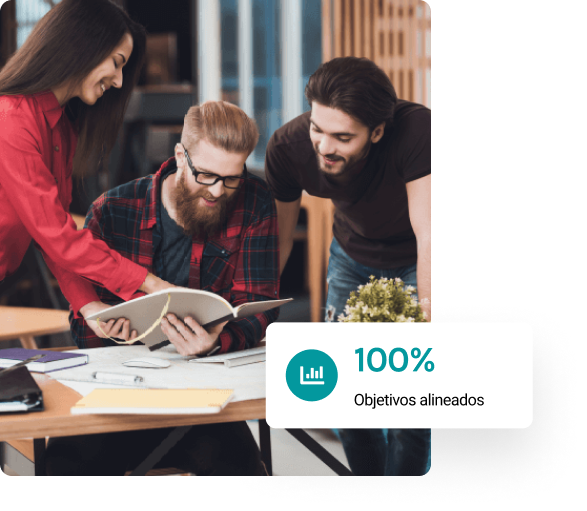
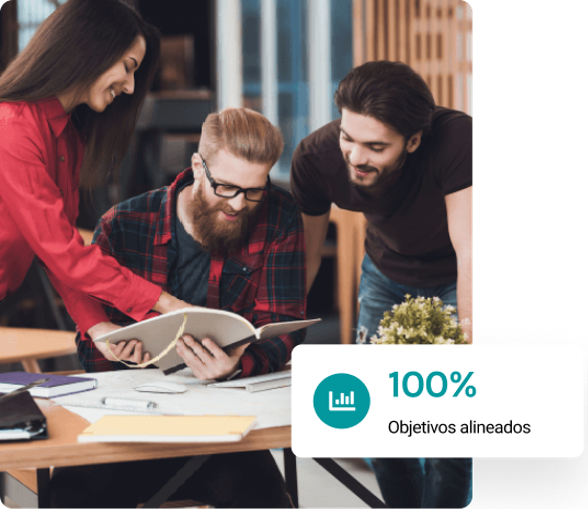
fix:changed components size for the company presentation

diff --git a/src/components/ui/InfoCompany.jsx b/src/components/ui/InfoCompany.jsx
@@ -1,4 +1,3 @@
-import React from "react";
 import nodes from "../../assets/nodes.png";
 import project from "../../assets/project.png";
 import company from "../../assets/company.png";
@@ -13,7 +12,8 @@ const features = [
   {
     image: project,
     title: "Proyectos y desafíos",
-    description: "Aplica los conocimientos y genera experiencia en grupo o indivualmente.",
+    description:
+      "Aplica los conocimientos y genera experiencia en grupo o indivualmente.",
   },
   {
     image: company,
@@ -27,11 +27,13 @@ const Info = () => {
   return (
     <div id="info" className="px-5 mb-20 md:pt-20 md:px-20">
       {/*Nuestra misión*/}
-      <div className="md:mb-40">
-        <div className="flex flex-col justify-between mb-5 md:flex-row ">
-          <div className="md:w-[50%]">
-            <h1 class="text-3xl text-primary font-bold mb-4">Nuestra misión</h1>
-            <p className="text-lg text-white text-justify">
+      <div className="xl:mb-20">
+        <div className="flex flex-col justify-between mb-5 xl:flex-row">
+          <div className="xl:w-[50%]">
+            <h1 className="mb-4 text-4xl font-bold md:text-5xl text-primary">
+              Nuestra misión
+            </h1>
+            <p className="text-lg text-justify text-white md:text-xl">
               En Nodect, nuestra misión es{" "}
               <strong className="text-primary">
                 optimizar los procesos educativos de las personas y su conexión
@@ -49,27 +51,27 @@ const Info = () => {
           <div className="">
             <img
               src="info1.png"
-              className="pt-5 md:pt-0 object-cover w-[300px] md:w-[400px] ml-[50%] md:ml-0 -translate-x-[50%] md:-translate-x-0"
+              className="pt-20 xl:pt-0 object-cover w-[300px] md:w-[400px] ml-[50%] xl:ml-0 -translate-x-[50%] xl:-translate-x-0"
             />
           </div>
         </div>
-        <div class="container mx-auto px-4 py-12">
-          <div class="flex flex-col md:flex-row">
-            <div class="md:w-1/2 p-4 rounded-lg mb-4 md:mb-0">
-              <h2 class="text-xl font-bold mb-2 text-primary text-center">
+        <div className="container py-20 mx-auto xl:px-10">
+          <div className="flex flex-col justify-between md:flex-row">
+            <div className="mb-10 rounded-lg md:w-[45%] md:mb-0">
+              <h2 className="mb-2 text-4xl font-bold text-center text-primary">
                 Innovación Tecnológica
               </h2>
-              <p class="text-white text-center font-bold">
+              <p className="text-lg text-center text-white md:text-xl">
                 Creemos firmemente en la importancia de innovar en una nueva
                 forma de concebir el proceso de aprendery cómo se recluta
                 talento en el mundo empresarial.
               </p>
             </div>
-            <div class="md:w-1/2 p-4 rounded-lg">
-              <h2 class="text-xl font-bold mb-2 text-primary text-center">
+            <div className="p-4 rounded-lg md:w-[45%]">
+              <h2 className="mb-2 text-4xl font-bold text-center text-primary">
                 Enfoque en el usuario
               </h2>
-              <p class="text-white text-center font-bold">
+              <p className="text-lg text-center text-white md:text-xl">
                 Al centrarnos en las necesidades reales de nuestros usuarios,
                 buscamos transformar ideas audaces en realidades tangibles que
                 marquen una diferencia positiva en el mundo.
@@ -80,33 +82,32 @@ const Info = () => {
       </div>
 
       {/*Nuestra visión*/}
-      <div className="flex flex-col items-center justify-between mb-20 md:flex-row-reverse ">
-        <div className="md:w-[40%]">
-          <h2 className="text-3xl text-primary font-bold mb-4">
+      <div className="flex flex-col items-center justify-between mb-10 xl:flex-row-reverse ">
+        <div className="xl:w-[50%]">
+          <h2 className="mb-4 text-4xl font-bold md:text-5xl text-primary">
             Nuestra visión
           </h2>
-          <p className="text-lg text-white text-justify">
-            Aspiramos a ser reconocidos por nuestra capacidad para diseñar e
-            implementar soluciones que mejoren la calidad educativa a unos
-            estándares sin predecentes además de revolucionar la forma de
-            captación de capital humano que tienen las empresas actualmente.
-            <br />
-            <strong className="text-primary">
-              Pero siempre, con un valores claros:
-            </strong>
-          </p>
-
-          <ul class="list-disc rounded-lg p-8">
-            <li class="text-lg mb-4 font-medium text-primary">
-              Compromiso con el cliente
-            </li>
-            <li class="text-lg mb-4 font-medium text-primary">
-              Integridad y transparencia
-            </li>
-            <li class="text-lg font-medium text-primary">
-              Innovación constante
-            </li>
-          </ul>
+          <div className="text-lg md:text-xl">
+            <p className="text-justify text-white ">
+              Aspiramos a ser reconocidos por nuestra capacidad para diseñar e
+              implementar soluciones que mejoren la calidad educativa a unos
+              estándares sin predecentes además de revolucionar la forma de
+              captación de capital humano que tienen las empresas actualmente.
+              <br />
+              <strong className="text-primary">
+                Pero siempre, con un valores claros:
+              </strong>
+            </p>
+            <ul className="p-8 list-disc rounded-lg">
+              <li className="font-medium xl:mb-4 text-primary">
+                Compromiso con el cliente
+              </li>
+              <li className="font-medium xl:mb-4 text-primary">
+                Integridad y transparencia
+              </li>
+              <li className="font-medium text-primary">Innovación constante</li>
+            </ul>
+          </div>
         </div>
         <div className="">
           <img
@@ -116,14 +117,15 @@ const Info = () => {
         </div>
       </div>
 
-      <div className="flex-col mt-15 mt-40">
+      {/*Como trabajamos*/}
+      <div className="flex-col mt-20">
         <div className="flex flex-col justify-center gap-2 text-4xl font-bold text-center md:flex-row md:text-5xl">
-          <h1 className="text-4xl text-primary font-bold mb-4">
+          <h1 className="mb-4 text-4xl font-bold md:text-5xl text-primary">
             Cómo trabajamos
           </h1>
         </div>
         <div className="flex justify-center">
-          <p className="text-lg text-white text-center">
+          <p className="text-lg text-center text-white md:text-xl">
             Nos centramos en cambiar el proceso de aprendizaje, buscando la
             mejora constante en todos los procesos, y que el usuario encuentre
             un espacio dónde sea totalmente beneficiado en caso paso.
@@ -131,22 +133,23 @@ const Info = () => {
         </div>
       </div>
 
-      <div className="container mx-auto px-4 py-8 mb-40">
-        <div className="flex flex-col md:flex-row justify-between space-y-4 md:space-y-0">
+      {/* Cards */}
+      <div className="container px-4 mx-auto mt-20">
+        <div className="flex flex-col justify-between space-y-4 md:flex-row md:space-y-0">
           {features.map((feature, index) => (
             <div
               key={index}
-              className="bg-primary rounded-lg shadow p-6 text-center flex-1 mx-2"
+              className="flex-1 p-6 mx-2 text-center rounded-lg shadow bg-primary"
             >
               <img
                 src={feature.image}
                 alt={feature.title}
-                className="mx-auto w-20 h-20 md:w-30 md:h-30"
+                className="w-20 h-20 mx-auto md:w-30 md:h-30"
               />
-              <h3 className="text-lg text-white md:text-xl font-semibold">
+              <h3 className="text-xl font-semibold text-white md:text-2xl">
                 {feature.title}
               </h3>
-              <p className="text-sm text-white md:text-base">
+              <p className="pt-5 text-lg text-white md:text-xl">
                 {feature.description}
               </p>
             </div>

diff --git a/src/components/ui/CompanyPresentation.jsx b/src/components/ui/CompanyPresentation.jsx
@@ -1,30 +1,36 @@
-import React from "react";
-
 const scrollToDestination = () => {
-  const destination = document.getElementById('info');
-  destination.scrollIntoView({ behavior: 'smooth' });
+  const destination = document.getElementById("info");
+  destination.scrollIntoView({ behavior: "smooth" });
 };
 const CompanyPresentation = () => {
   return (
-    <section className="my-10 min-h-[90vh] md:min-h-[60vh] xl:min-h-[70vh]">
-      <div className="flex flex-col md:flex-row mt-5">
-        <div className="flex flex-col justify-center gap-2 text-xl font-bold text-center md:text-3xl md:w-1/2">
-          <h1 className="text-white">Dedícate a aprender</h1>
-          <h4 className="text-primary">Nosotros nos ocupamos del resto</h4>
-          <p className="px-5 mt-5 text-base text-center text-white  ">
-            Buscamos generar un giro en la forma en que aprendemos y nos conectamos
-            al mercado laboral, acompañanos en esta aventura!
+    <section className="mt-10 min-h-[90vh] md:min-h-[60vh] md:bg-blue-200 xl:bg-red-300 2xl:bg-green-400 xl:min-h-[30vh]">
+      <div className="flex flex-col mt-5 xl:gap-20 xl:flex-row">
+        <div className="flex flex-col justify-center gap-2 text-center xl:w-[60%]">
+          <h1 className="text-4xl font-bold text-white md:text-5xl text-bold">
+            Dedícate a aprender
+          </h1>
+          <h4 className="text-4xl font-bold md:text-5xl text-bold text-primary">
+            Nosotros nos ocupamos del resto
+          </h4>
+          <p className="px-5 mt-5 text-lg text-center text-white md:text-xl">
+            Buscamos generar un giro en la forma en que aprendemos y nos
+            conectamos al mercado laboral, acompañanos en esta aventura!
           </p>
+
           <div className="flex flex-col items-center justify-center gap-4 px-10 pt-5 md:flex-row md:px-0">
-            <a onClick={scrollToDestination} className="w-full px-8 py-2 text-lg text-center text-white rounded-lg md:w-auto bg-primary">
+            <a
+              onClick={scrollToDestination}
+              className="w-full px-8 py-2 text-lg text-center text-white rounded-lg cursor-pointer md:w-auto bg-primary"
+            >
               Conócenos
             </a>
           </div>
         </div>
-        <div className="flex justify-center md:w-1/2 pt-3">
+        <div className="flex justify-center pt-3">
           <img
             src="banner2.png"
-            className="object-cover w-[40vh] md:w-[100%] md:h-[100%] xl:w-[50%] xl:h-[100%]"
+            className="object-cover w-[35vh] md:w-[60%] md:h-[100%] lg:w-[25vh] xl:w-[90%] xl:h-[100%]"
           />
         </div>
       </div>

diff --git a/src/components/ui/Info.jsx b/src/components/ui/Info.jsx
@@ -1,4 +1,3 @@
-import React from "react";
 
 const Info = () => {
   return (
@@ -8,7 +7,7 @@ const Info = () => {
           <h2 className="mb-5 text-4xl font-bold text-white md:mb-10 md:text-5xl">
             Resuelve proyectos
           </h2>
-          <p className="text-lg text-white text-justify">
+          <p className="text-lg text-justify text-white">
             Te ofrecemos proyectos del mundo real, diseñados para que puedas
             practicar y mejorar tus habilidades en un entorno profesional
             simulado. ¡Las empresas de diversos sectores están observando y
@@ -28,7 +27,7 @@ const Info = () => {
           <h2 className="mb-5 text-4xl font-bold text-white md:mb-10 md:text-5xl">
             Trabajo en equipo
           </h2>
-          <p className="text-lg text-white text-justify">
+          <p className="text-lg text-justify text-white">
             Trabajarás en equipos multidisciplinarios, resolverás problemas
             reales y aprenderás a colaborar eficazmente en un entorno
             profesional
@@ -46,7 +45,7 @@ const Info = () => {
           <h2 className="mb-5 text-4xl font-bold text-white md:mb-10 md:text-5xl">
             Aplica tecnología
           </h2>
-          <p className="text-lg text-white text-justify">
+          <p className="text-lg text-justify text-white">
             UTiliza las herramientas, tecnologías y metodologías que más te
             gusten y te ayuden a resolver el problema de la mejor manera y
             demostrar tu talento

diff --git a/src/components/ui/Faqs.jsx b/src/components/ui/Faqs.jsx
@@ -1,4 +1,4 @@
-import React, { useEffect, useState } from 'react'
+import { useEffect, useState } from 'react'
 import QuestionBox from './QuestionBox'
 import { faqs } from '../../data/Questions';
 
